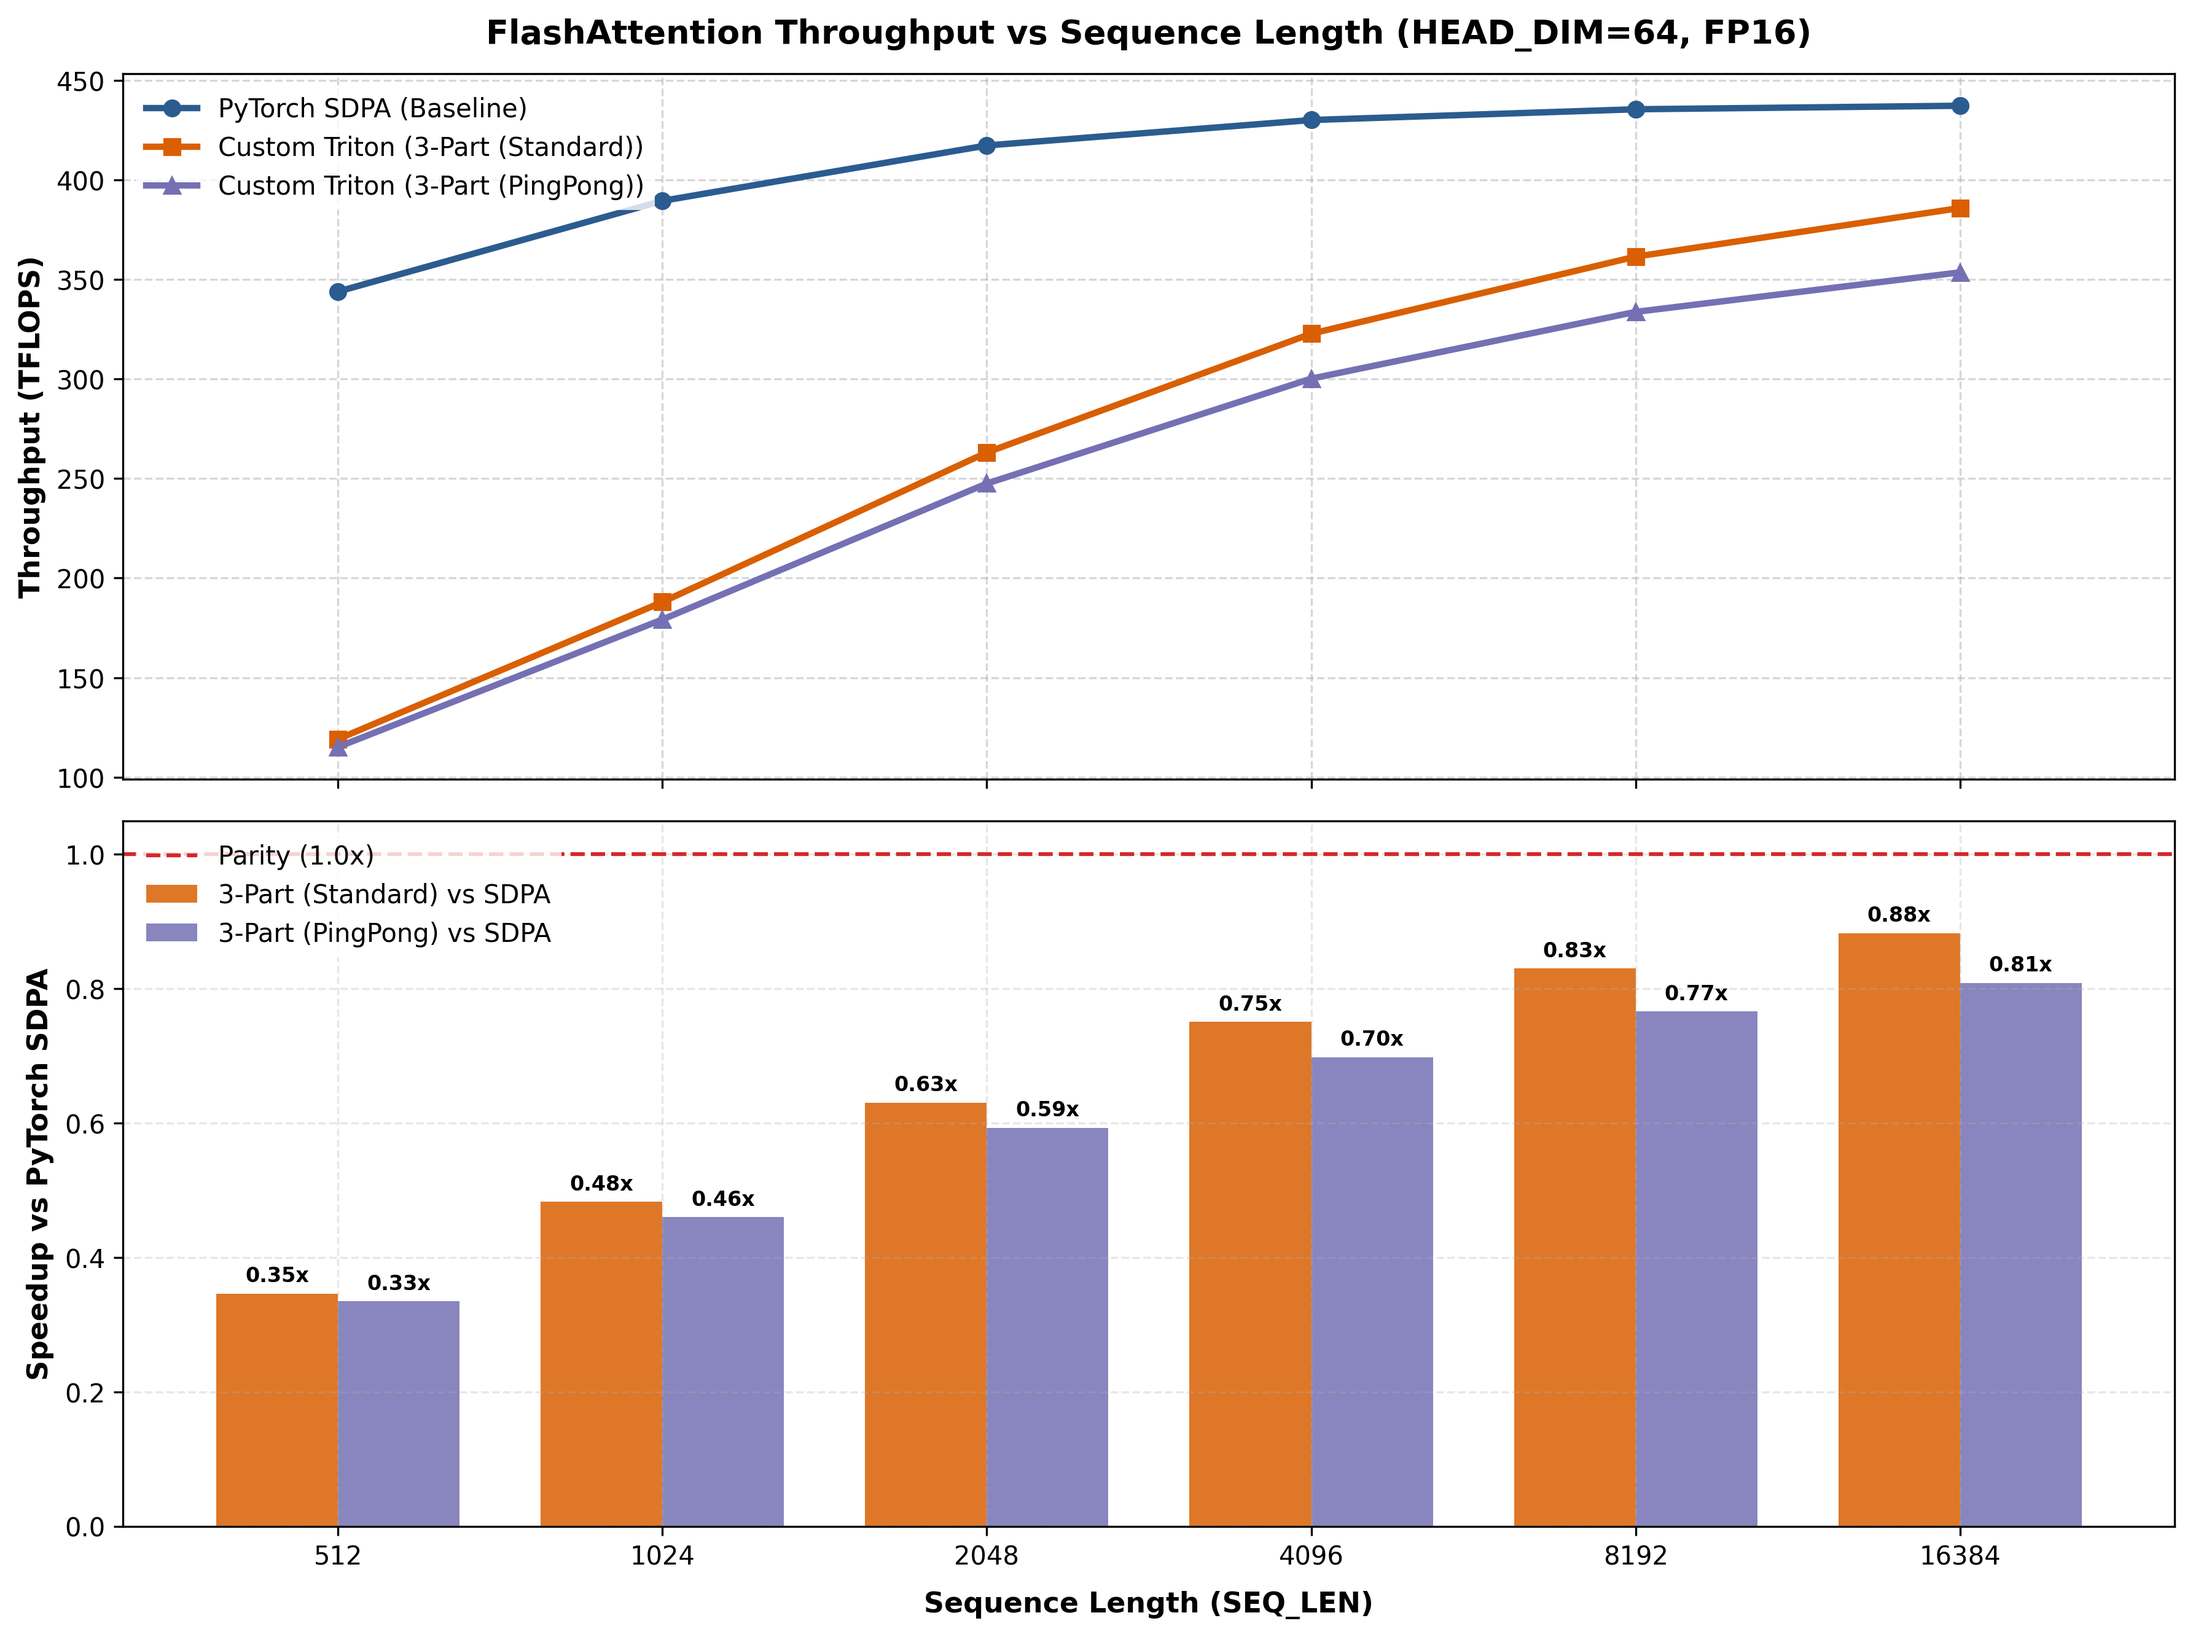
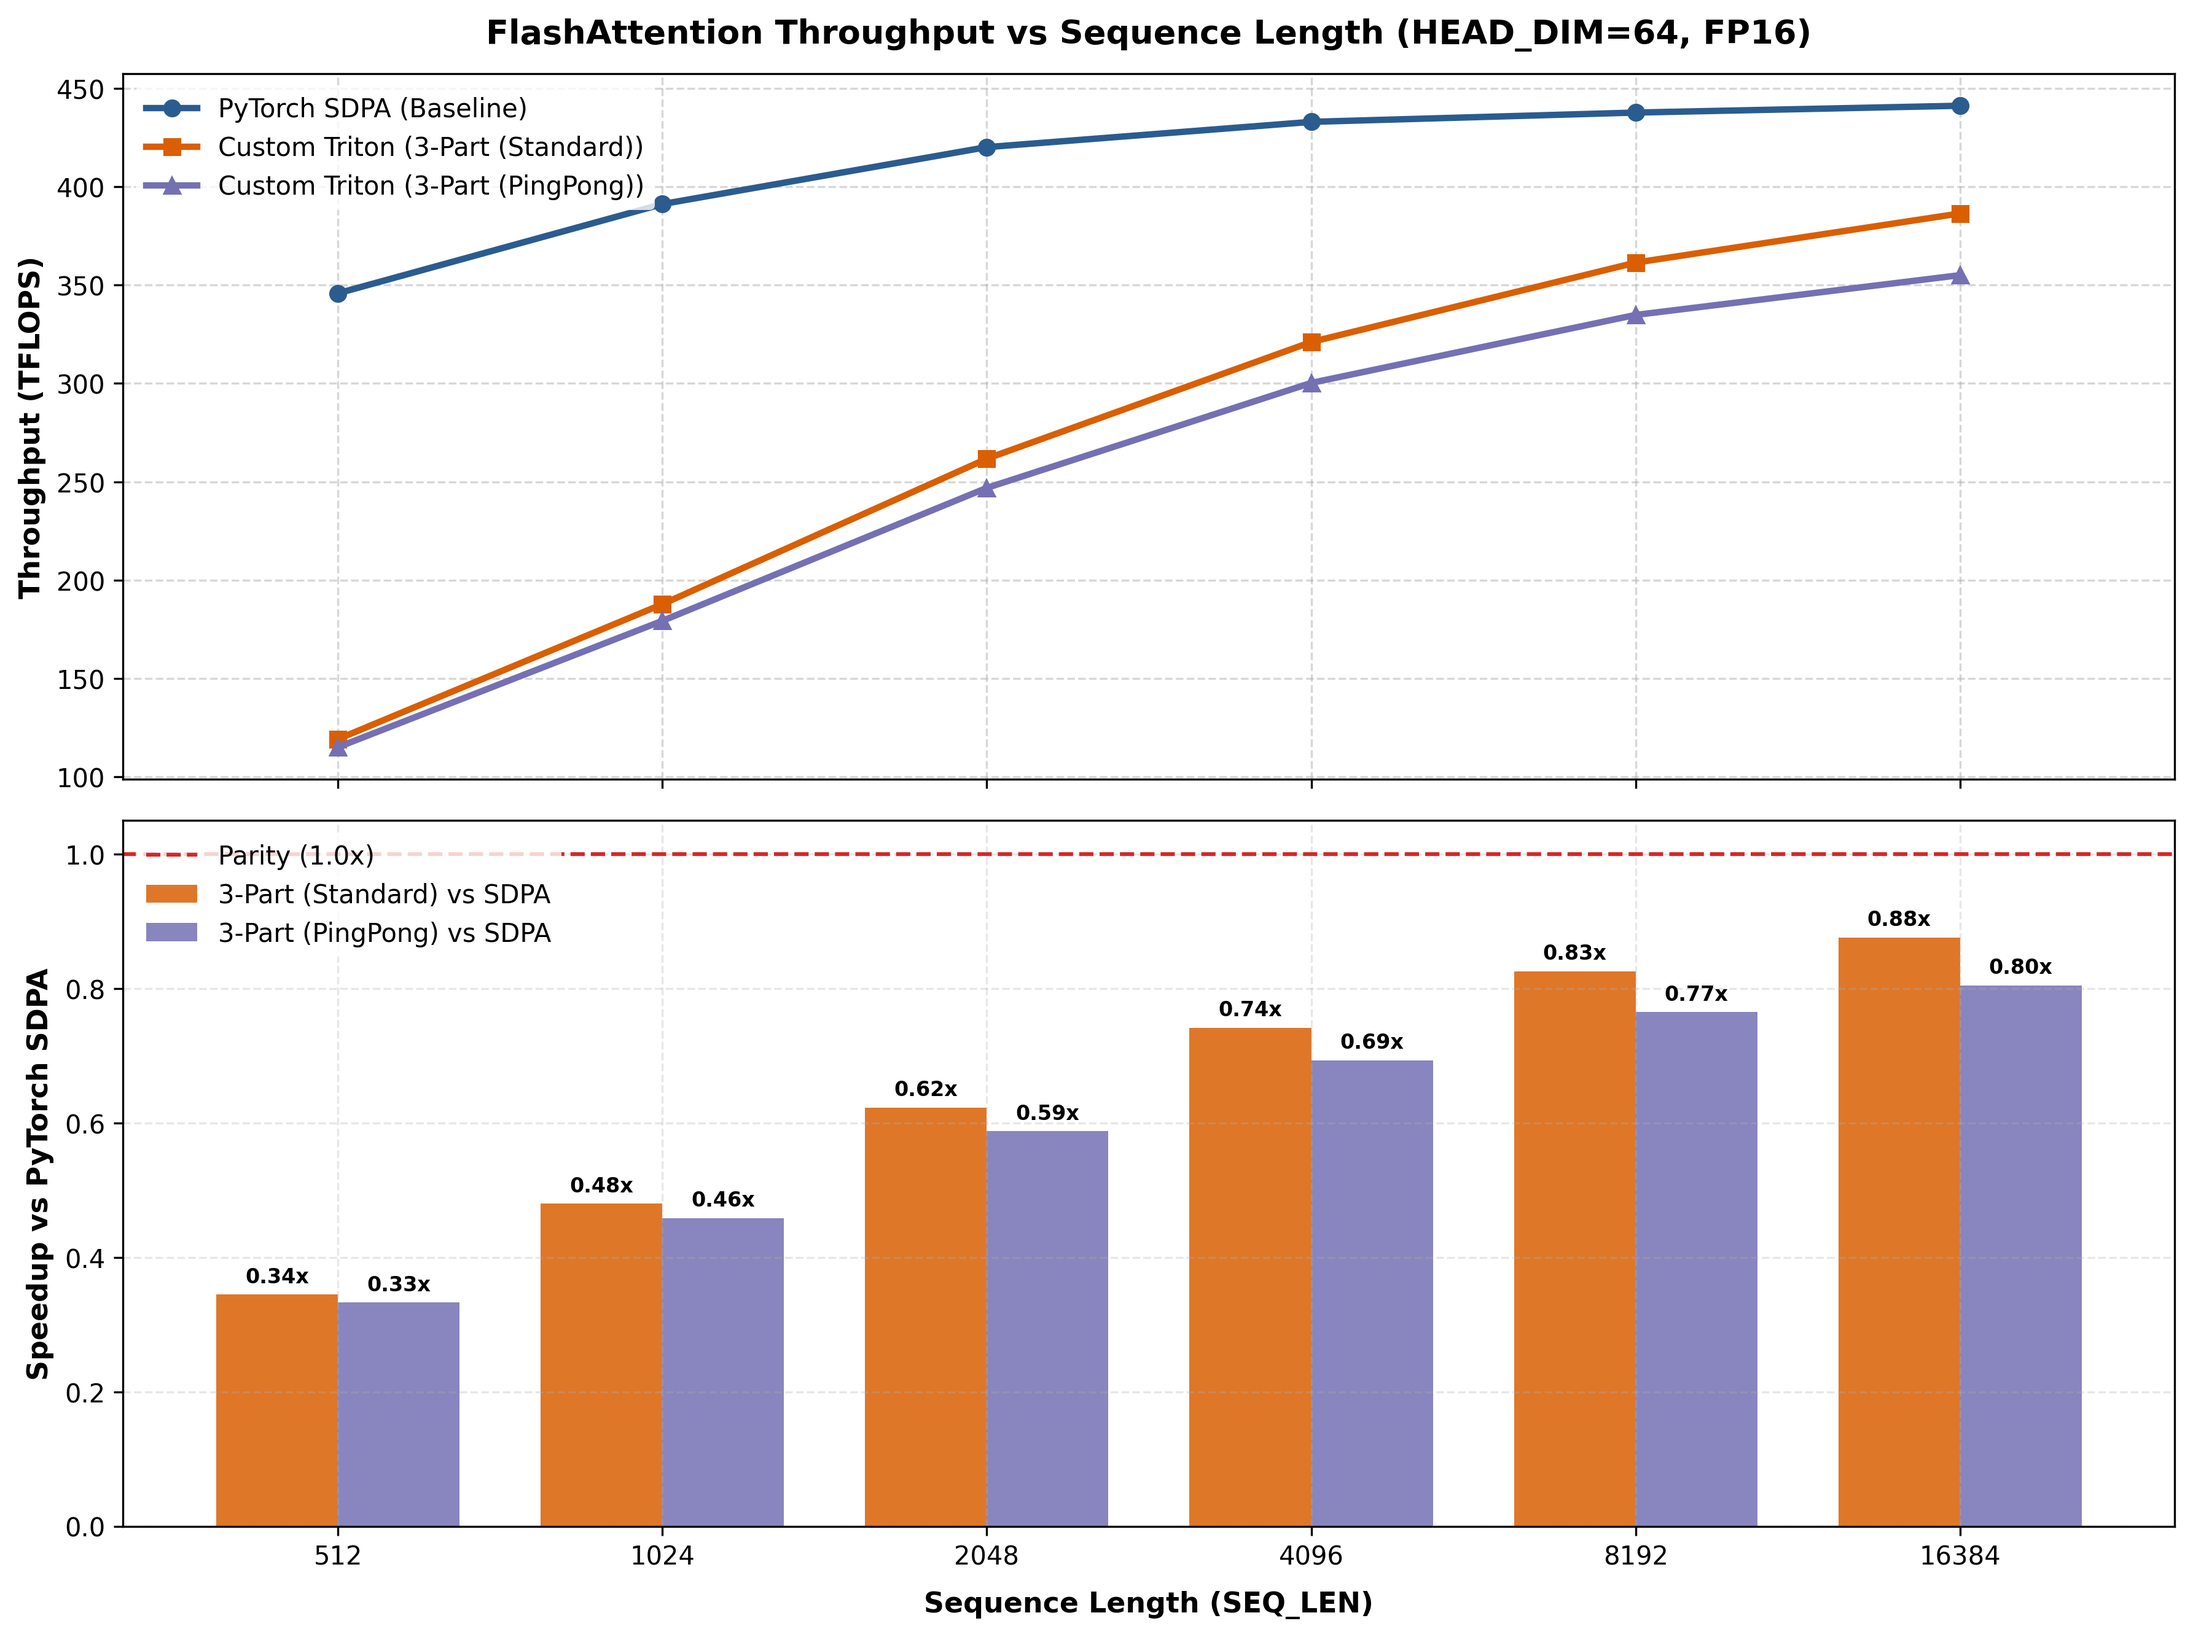
benchmark full

diff --git a/attention/gluon_3_partition_pingpong.py b/attention/gluon_3_partition_pingpong.py
@@ -270,19 +270,21 @@ def fa3_consumer_partition(
         l_old = gl.zeros((BLOCK_M,), dtype=gl.float32, layout=s_layout)
 
         mbarrier.wait(p.q_ready_bar.index(0), q_state.phase)
+        
+        mma_s_curr = WGMMA.initialize(dtype, BLOCK_M, BLOCK_N, p.num_warps)
+        mma_s_next = WGMMA.initialize(dtype, BLOCK_M, BLOCK_N, p.num_warps)
 
         # Prologue: Issue S_0 = Q * K_0^T
         mbarrier.wait(p.kv_ready_bars.index(kv_state.index), kv_state.phase)
-        mma_s = WGMMA.initialize(dtype, BLOCK_M, BLOCK_N, p.num_warps)
-        mma_s = mma_s.issue_async_mma(p.q_buf, p.k_bufs.index(kv_state.index))
+        mma_s_curr = mma_s.issue_async_mma(p.q_buf, p.k_bufs.index(kv_state.index))
 
         # Main Loop (Steps 0 to num_steps - 2)
         for step in range(num_steps - 1):
             next_kv_state = kv_state.next()
 
             # 1. Wait for S_{step} and previous O accumulator
-            mma_s = mma_s.wait_num_outstanding(0)
-            S_tile, _ = mma_s.take_result()
+            mma_s_curr = mma_s.wait_num_outstanding(0)
+            S_tile, _ = mma_s_curr.take_result()
             S_tile = S_tile * sm_scale_log2
 
             # 2. OVERLAP: Issue S_{step+1} BEFORE Softmax math
@@ -319,7 +321,7 @@ def fa3_consumer_partition(
 
             mbarrier.arrive(p.kv_empty_bars.index(kv_state.index), count=1)
             kv_state = next_kv_state
-            mma_s = mma_s_next
+            mma_s_curr = mma_s_next
 
         # Epilogue (Final Step num_steps - 1)
         mma_s = mma_s.wait_num_outstanding(0)
@@ -642,10 +644,10 @@ if __name__ == "__main__":
     parser.add_argument("--tune", action="store_true", help="Enable Triton autotuning")
     
     parser.add_argument("--bm", type=int, default=128, help="BLOCK_SIZE_M")
-    parser.add_argument("--bn", type=int, default=64, help="BLOCK_SIZE_N")
+    parser.add_argument("--bn", type=int, default=128, help="BLOCK_SIZE_N")
     parser.add_argument("--bk", type=int, default=128, help="BLOCK_SIZE_N")
-    parser.add_argument("--stages", type=int, default=4, help="Number of pipeline stages for KV")
-    parser.add_argument("--sf", type=int, default=8, help="SUBTILE_FACTOR")
+    parser.add_argument("--stages", type=int, default=2, help="Number of pipeline stages for KV")
+    parser.add_argument("--sf", type=int, default=2, help="SUBTILE_FACTOR")
     parser.add_argument("--warps", type=int, default=8, help="Number of compute warps")
     
     args = parser.parse_args()
